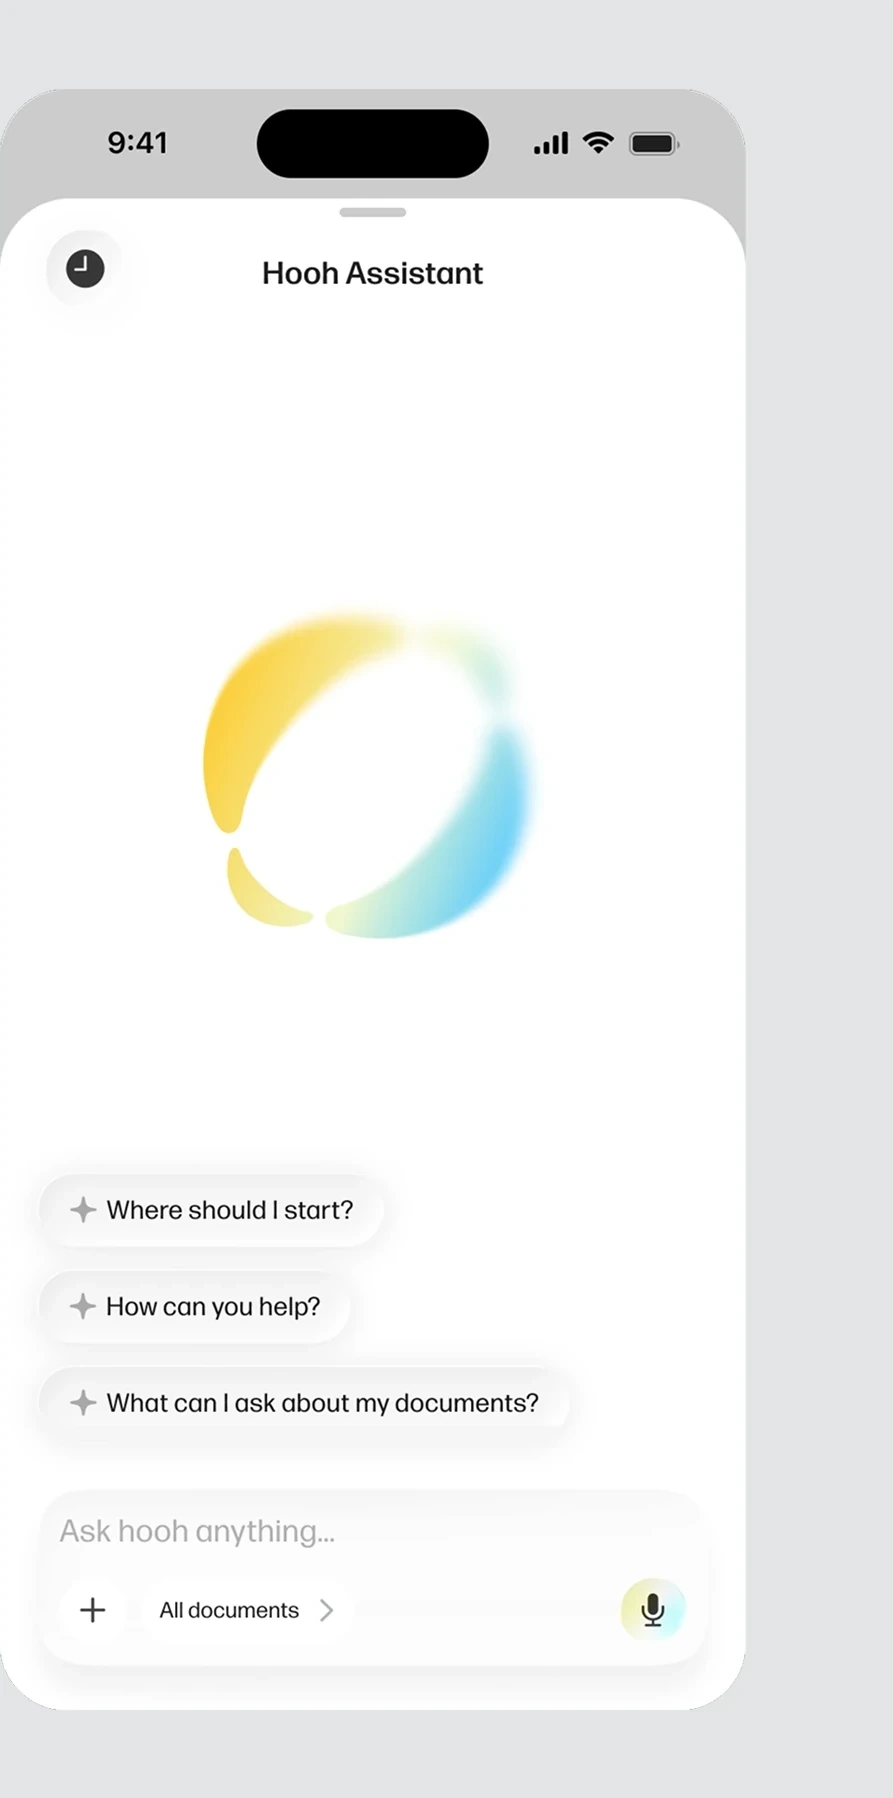
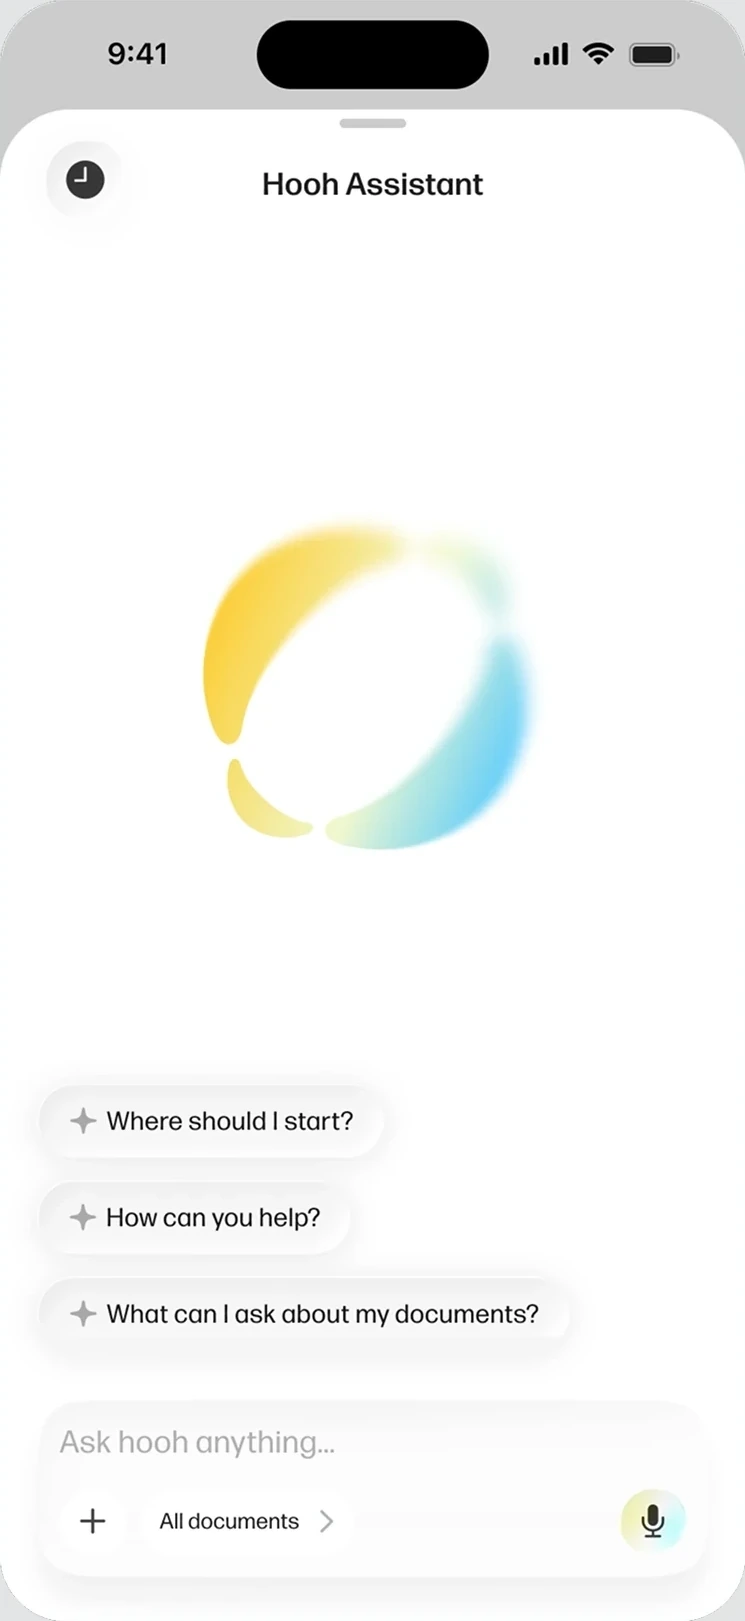
hooh chatA: normalize phone padding so all three render identically
The three assistant screens had different built-in padding around the device
(s1/s2 had ~5% top/bottom margin and were left-shifted; s3 had none), so they
sat at different sizes on the plate. Tight-crop each to the device bbox — all
three now share the same aspect ratio and land at the same size, centered.

diff --git a/hooh.html b/hooh.html
@@ -165,9 +165,9 @@
         <figure class="case__figure">
           <picture class="case__figure-desktop"><img src="assets/case-chatA.webp?v=7" alt="Three iOS Hooh Assistant screens — intro with suggested prompts, a My hemoglobin chat with inline source citations and a Health summary explanation, and a My hemoglobin chat with a Blood analysis document card" loading="lazy"></picture>
           <div class="case__slider" role="group" aria-label="Swipe through the three Hooh Assistant screens">
-            <div class="case__slide"><img class="case__shot case__shot--phone" src="assets/case-chatA-s1.webp?v=7" alt="Hooh Assistant intro with suggested prompts" loading="lazy"></div>
-            <div class="case__slide"><img class="case__shot case__shot--phone" src="assets/case-chatA-s2.webp?v=7" alt="My hemoglobin chat with inline source citations and a Health summary" loading="lazy"></div>
-            <div class="case__slide"><img class="case__shot case__shot--phone" src="assets/case-chatA-s3.webp?v=7" alt="My hemoglobin chat with a Blood analysis document card" loading="lazy"></div>
+            <div class="case__slide"><img class="case__shot case__shot--phone" src="assets/case-chatA-s1.webp?v=8" alt="Hooh Assistant intro with suggested prompts" loading="lazy"></div>
+            <div class="case__slide"><img class="case__shot case__shot--phone" src="assets/case-chatA-s2.webp?v=8" alt="My hemoglobin chat with inline source citations and a Health summary" loading="lazy"></div>
+            <div class="case__slide"><img class="case__shot case__shot--phone" src="assets/case-chatA-s3.webp?v=8" alt="My hemoglobin chat with a Blood analysis document card" loading="lazy"></div>
           </div>
         </figure>
 
